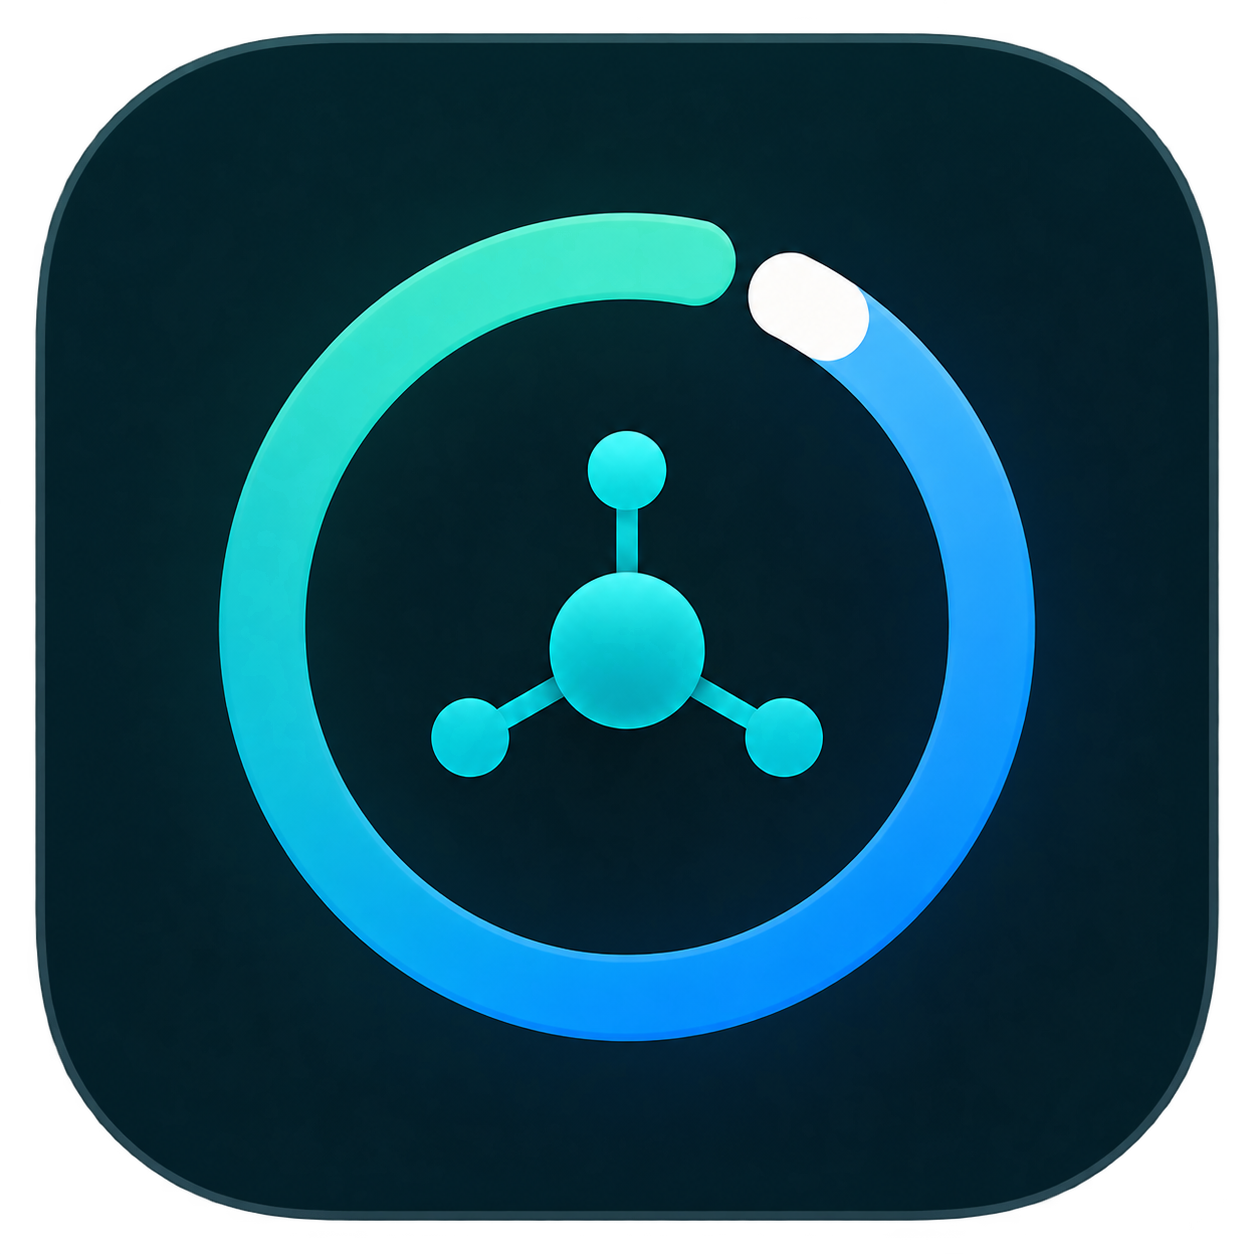
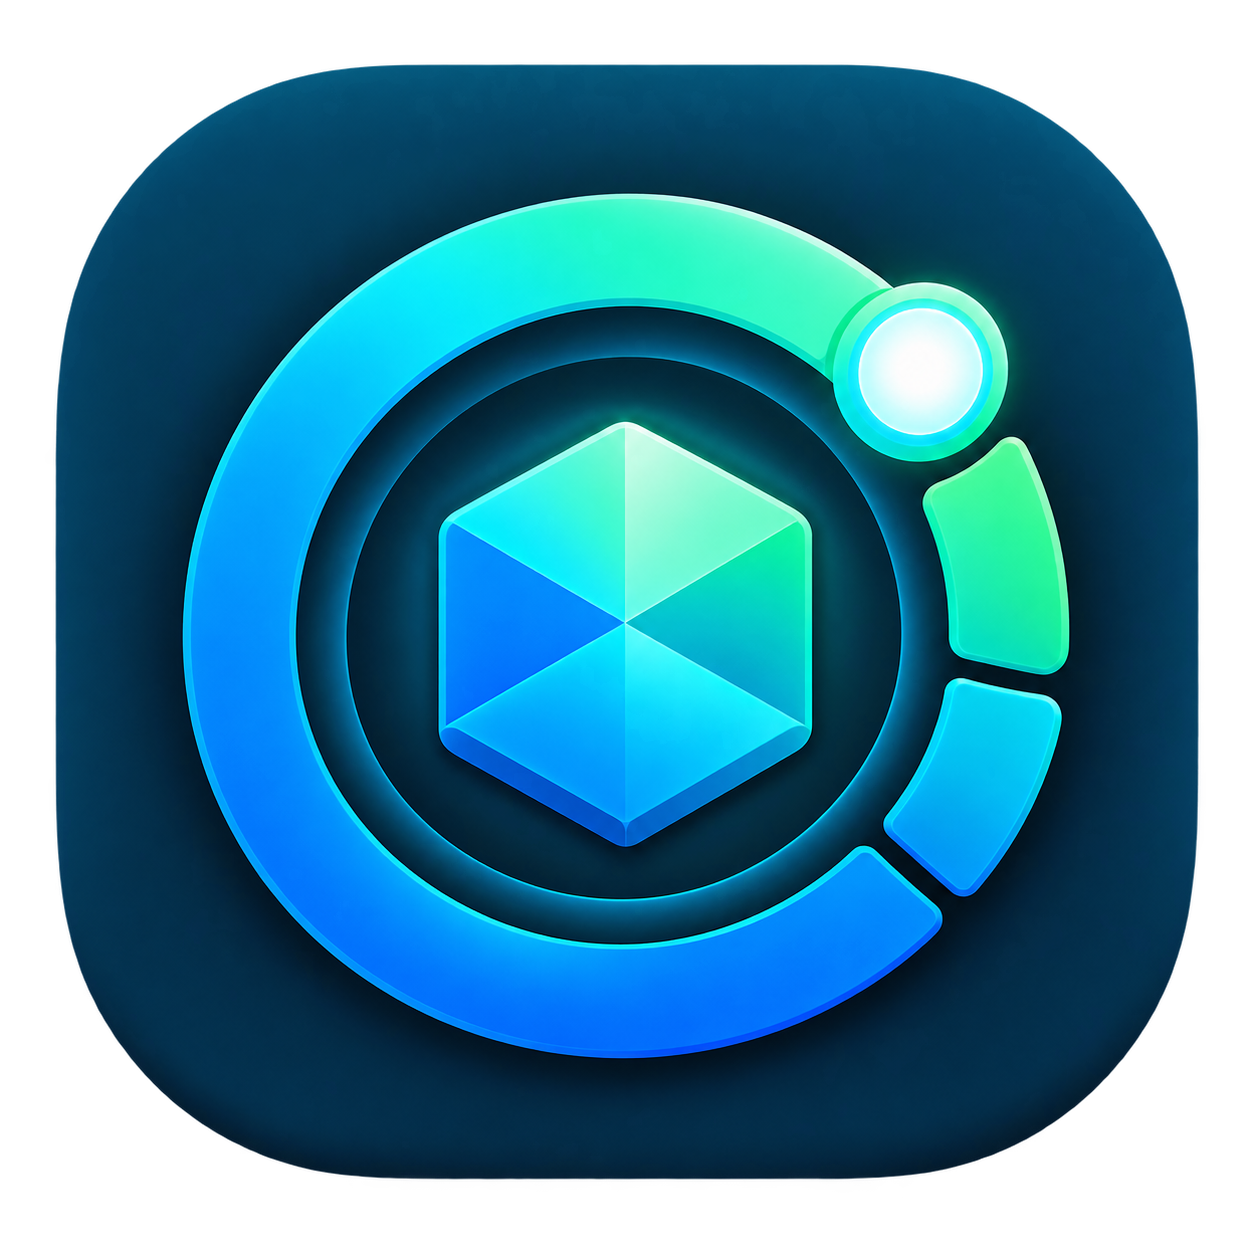
Improve quota resilience and show remaining allowance

diff --git a/macos/TokenUsageMonitor/Sources/TokenUsageMonitor/MonitorStore.swift b/macos/TokenUsageMonitor/Sources/TokenUsageMonitor/MonitorStore.swift
@@ -22,7 +22,7 @@ final class MonitorStore: ObservableObject {
 
     private enum Keys {
         static let notificationsEnabled = "notifications.enabled"
-        static let thresholds = "notifications.thresholds"
+        static let thresholds = "notifications.remainingThresholds"
         static let resetWarningMinutes = "notifications.resetWarningMinutes"
         static let notifiedResetPrefix = "monitor.notifiedReset."
     }
@@ -34,6 +34,7 @@ final class MonitorStore: ObservableObject {
     private var taskTimer: DispatchSourceTimer?
     private var client: AppServerClient?
     private var apiServerProcess: Process?
+    private var consecutiveQuotaFailures = 0
     private let dataDirectory: URL
     private let snapshotURL: URL
     private let taskRecordsURL: URL
@@ -62,7 +63,7 @@ final class MonitorStore: ObservableObject {
             taskRecords = []
         }
         notificationsEnabled = defaults.object(forKey: Keys.notificationsEnabled) as? Bool ?? true
-        thresholdText = defaults.string(forKey: Keys.thresholds) ?? "80, 95, 100"
+        thresholdText = defaults.string(forKey: Keys.thresholds) ?? "20, 5, 0"
         let storedWarning = defaults.integer(forKey: Keys.resetWarningMinutes)
         resetWarningMinutes = storedWarning == 0 ? 30 : storedWarning
         worker.setSpecific(key: workerKey, value: true)
@@ -86,16 +87,16 @@ final class MonitorStore: ObservableObject {
     }
 
     var menuTitle: String {
-        guard let used = primaryWindow?.usedPercent else { return "--%" }
-        return "\(Int(used.rounded()))%"
+        guard let remaining = primaryWindow?.remainingPercent else { return "--%" }
+        return "\(Int(remaining.rounded()))%"
     }
 
     var thresholds: [Int] {
         let parsed = thresholdText
             .split(whereSeparator: { $0 == "," || $0 == "，" || $0 == " " })
             .compactMap { Int($0) }
-            .filter { (1...100).contains($0) }
-        return Array(Set(parsed)).sorted()
+            .filter { (0...99).contains($0) }
+        return Array(Set(parsed)).sorted(by: >)
     }
 
     func start() {
@@ -175,32 +176,71 @@ final class MonitorStore: ObservableObject {
             var usage: [String: Any] = [:]
             var limits: [String: Any] = [:]
             var usageError: Error?
-            do { usage = try client.request(method: "account/usage/read") } catch { usageError = error }
-            do { limits = try client.request(method: "account/rateLimits/read") } catch {
-                if let usageError { throw MonitorError.server("\(usageError.localizedDescription)；\(error.localizedDescription)") }
-                throw error
-            }
-            if usage.isEmpty && limits.isEmpty { throw MonitorError.invalidResponse }
+            var limitsError: Error?
+            do { limits = try client.request(method: "account/rateLimits/read", timeout: 20) } catch { limitsError = error }
+            do { usage = try client.request(method: "account/usage/read", timeout: 20) } catch { usageError = error }
 
-            let updated = parseSnapshot(usage: usage, limits: limits)
+            guard !usage.isEmpty || !limits.isEmpty else {
+                consecutiveQuotaFailures += 1
+                let shouldReconnect = [usageError, limitsError]
+                    .compactMap { $0 }
+                    .contains { self.isProcessEnded($0) }
+                if shouldReconnect {
+                    client.close()
+                    self.client = nil
+                }
+                let hasCachedQuota = !snapshot.rateWindows.isEmpty
+                DispatchQueue.main.async {
+                    self.lastError = hasCachedQuota
+                        ? "账户额度暂时无法更新，正在显示上次数据；任务 Token 记录不受影响。"
+                        : "暂时无法读取账户额度，应用会自动重试。"
+                    self.isRefreshing = false
+                    self.connectionState = hasCachedQuota ? .cached : .retrying("正在自动重试")
+                }
+                return
+            }
+
+            let updated = parseSnapshot(usage: usage, limits: limits, fallback: snapshot)
             let previous = snapshot
             persist(updated)
             evaluateAlerts(previous: previous, current: updated)
+            consecutiveQuotaFailures = 0
             DispatchQueue.main.async {
                 self.snapshot = updated
-                self.lastError = nil
+                self.lastError = limitsError == nil
+                    ? nil
+                    : "账户额度暂时无法更新，正在显示上次数据；任务 Token 记录不受影响。"
                 self.isRefreshing = false
-                self.connectionState = .connected(client.connectionMode ?? "已连接")
+                self.connectionState = limitsError == nil
+                    ? .connected(client.connectionMode ?? "已连接")
+                    : .cached
             }
         } catch {
             client?.close()
             client = nil
+            consecutiveQuotaFailures += 1
+            let hasCachedQuota = !snapshot.rateWindows.isEmpty
             DispatchQueue.main.async {
-                self.lastError = error.localizedDescription
+                self.lastError = hasCachedQuota
+                    ? "账户额度暂时无法更新，正在显示上次数据；任务 Token 记录不受影响。"
+                    : self.friendlyConnectionError(error)
                 self.isRefreshing = false
-                self.connectionState = .retrying(error.localizedDescription)
+                self.connectionState = hasCachedQuota ? .cached : .retrying("正在自动重试")
             }
         }
+    }
+
+    private func isProcessEnded(_ error: Error) -> Bool {
+        guard let monitorError = error as? MonitorError else { return false }
+        if case .processEnded = monitorError { return true }
+        return false
+    }
+
+    private func friendlyConnectionError(_ error: Error) -> String {
+        if let monitorError = error as? MonitorError, case .codexNotFound = monitorError {
+            return monitorError.localizedDescription
+        }
+        return "暂时无法连接 Codex 用量服务，应用会自动重试。"
     }
 
     private func collectTasks() {
@@ -379,7 +419,11 @@ final class MonitorStore: ObservableObject {
         try? FileManager.default.setAttributes([.posixPermissions: 0o600], ofItemAtPath: taskRecordsURL.path)
     }
 
-    private func parseSnapshot(usage: [String: Any], limits: [String: Any]) -> UsageSnapshot {
+    private func parseSnapshot(
+        usage: [String: Any],
+        limits: [String: Any],
+        fallback: UsageSnapshot
+    ) -> UsageSnapshot {
         let summaryObject = usage.dictionary("summary")
         let account = summaryObject.map {
             AccountSummary(
@@ -388,11 +432,12 @@ final class MonitorStore: ObservableObject {
                 currentStreakDays: $0.integer("currentStreakDays"),
                 longestStreakDays: $0.integer("longestStreakDays")
             )
-        }
-        let days = usage.array("dailyUsageBuckets").compactMap { item -> DailyUsage? in
+        } ?? fallback.account
+        let parsedDays = usage.array("dailyUsageBuckets").compactMap { item -> DailyUsage? in
             guard let date = item.string("startDate"), let tokens = item.integer("tokens") else { return nil }
             return DailyUsage(date: date, tokens: tokens)
         }.sorted { $0.date < $1.date }
+        let days = usage.isEmpty ? fallback.dailyUsage : parsedDays
 
         var windows: [RateWindow] = []
         if let groups = limits.dictionary("rateLimitsByLimitId") {
@@ -408,7 +453,10 @@ final class MonitorStore: ObservableObject {
             if $0.limitID != "codex" && $1.limitID == "codex" { return false }
             return $0.id < $1.id
         }
-        let resetCredits = limits.dictionary("rateLimitResetCredits")?.integer("availableCount") ?? 0
+        if limits.isEmpty { windows = fallback.rateWindows }
+        let resetCredits = limits.isEmpty
+            ? fallback.availableResetCredits
+            : limits.dictionary("rateLimitResetCredits")?.integer("availableCount") ?? 0
         return UsageSnapshot(
             capturedAt: Date(),
             account: account,
@@ -443,9 +491,12 @@ final class MonitorStore: ObservableObject {
         let now = Date()
         for window in current.rateWindows {
             let old = previous.rateWindows.first(where: { $0.id == window.id })
-            for threshold in thresholds where window.usedPercent >= Double(threshold) {
-                if old == nil || (old?.usedPercent ?? 0) < Double(threshold) {
-                    sendNotification(title: "Codex 用量提醒", body: "\(window.displayName)已使用 \(Int(window.usedPercent.rounded()))%")
+            for threshold in thresholds where window.remainingPercent <= Double(threshold) {
+                if old == nil || (old?.remainingPercent ?? 100) > Double(threshold) {
+                    sendNotification(
+                        title: "Codex 余量提醒",
+                        body: "\(window.displayName)剩余 \(Int(window.remainingPercent.rounded()))%"
+                    )
                 }
             }
             if let old, let oldReset = old.resetsAt, let newReset = window.resetsAt,

diff --git a/macos/TokenUsageMonitor/Sources/TokenUsageMonitor/ContentView.swift b/macos/TokenUsageMonitor/Sources/TokenUsageMonitor/ContentView.swift
@@ -24,13 +24,16 @@ struct MonitorPanel: View {
 
     private var header: some View {
         HStack(spacing: 10) {
-            ZStack {
-                RoundedRectangle(cornerRadius: 10)
-                    .fill(Color.accentColor.gradient)
-                    .frame(width: 38, height: 38)
+            if let logo = appLogo {
+                Image(nsImage: logo)
+                    .resizable()
+                    .interpolation(.high)
+                    .scaledToFit()
+                    .frame(width: 40, height: 40)
+            } else {
                 Image(systemName: "gauge.with.dots.needle.67percent")
-                    .font(.system(size: 20, weight: .semibold))
-                    .foregroundStyle(.white)
+                    .font(.system(size: 22, weight: .semibold))
+                    .frame(width: 40, height: 40)
             }
             VStack(alignment: .leading, spacing: 2) {
                 Text("Token Usage Monitor").font(.headline)
@@ -123,14 +126,14 @@ struct MonitorPanel: View {
                         .background(.secondary.opacity(0.12), in: Capsule())
                 }
                 Spacer()
-                Text("\(Int(window.usedPercent.rounded()))%")
+                Text("剩余 \(Int(window.remainingPercent.rounded()))%")
                     .font(.title2.monospacedDigit().weight(.bold))
-                    .foregroundStyle(progressColor(window.usedPercent))
+                    .foregroundStyle(remainingColor(window.remainingPercent))
             }
-            ProgressView(value: min(window.usedPercent, 100), total: 100)
-                .tint(progressColor(window.usedPercent))
+            ProgressView(value: window.remainingPercent, total: 100)
+                .tint(remainingColor(window.remainingPercent))
             HStack {
-                Text("剩余 \(Int(max(0, 100 - window.usedPercent).rounded()))%")
+                Text(remainingDescription(window.remainingPercent))
                 Spacer()
                 if let reset = window.resetsAt {
                     Text("刷新 ") + Text(reset, style: .relative)
@@ -285,9 +288,9 @@ struct MonitorPanel: View {
                 Toggle("系统通知", isOn: $monitor.notificationsEnabled)
                     .onChange(of: monitor.notificationsEnabled) { _ in monitor.updateNotificationPermissionIfNeeded() }
                 VStack(alignment: .leading, spacing: 5) {
-                    Text("用量阈值").font(.subheadline)
-                    TextField("80, 95, 100", text: $monitor.thresholdText).textFieldStyle(.roundedBorder)
-                    Text("使用逗号分隔，范围为 1–100").font(.caption).foregroundStyle(.secondary)
+                    Text("低余量提醒").font(.subheadline)
+                    TextField("20, 5, 0", text: $monitor.thresholdText).textFieldStyle(.roundedBorder)
+                    Text("剩余比例降到这些数值时提醒，以逗号分隔").font(.caption).foregroundStyle(.secondary)
                 }
                 Stepper("刷新前提醒：\(monitor.resetWarningMinutes) 分钟", value: $monitor.resetWarningMinutes, in: 5...240, step: 5)
             }
@@ -365,10 +368,21 @@ struct MonitorPanel: View {
         .padding(.vertical, 10)
     }
 
-    private func progressColor(_ value: Double) -> Color {
-        if value >= 95 { return .red }
-        if value >= 80 { return .orange }
+    private func remainingColor(_ value: Double) -> Color {
+        if value <= 5 { return .red }
+        if value <= 20 { return .orange }
         return .accentColor
+    }
+
+    private func remainingDescription(_ value: Double) -> String {
+        if value <= 5 { return "余量即将耗尽" }
+        if value <= 20 { return "余量偏低" }
+        return "余量充足"
+    }
+
+    private var appLogo: NSImage? {
+        guard let url = Bundle.main.url(forResource: "AppLogo", withExtension: "png") else { return nil }
+        return NSImage(contentsOf: url)
     }
 
     private func compact(_ number: Int?) -> String {

diff --git a/macos/TokenUsageMonitor/Sources/TokenUsageMonitor/AppServerClient.swift b/macos/TokenUsageMonitor/Sources/TokenUsageMonitor/AppServerClient.swift
@@ -23,10 +23,14 @@ final class AppServerClient {
     func connect() throws -> String {
         guard let codex = Self.findCodexBinary() else { throw MonitorError.codexNotFound }
         var failures: [String] = []
-        for candidate in [
-            ("daemon proxy", ["app-server", "proxy"]),
-            ("独立连接", ["app-server", "--stdio"])
-        ] {
+        var candidates: [(String, [String])] = []
+        let controlSocket = FileManager.default.homeDirectoryForCurrentUser
+            .appendingPathComponent(".codex/app-server-control/app-server-control.sock")
+        if FileManager.default.fileExists(atPath: controlSocket.path) {
+            candidates.append(("桌面连接", ["app-server", "proxy"]))
+        }
+        candidates.append(("独立连接", ["app-server", "--stdio"]))
+        for candidate in candidates {
             do {
                 try spawn(executable: codex, arguments: candidate.1)
                 _ = try request(
@@ -34,7 +38,7 @@ final class AppServerClient {
                     params: ["clientInfo": [
                         "name": "token_usage_monitor_macos",
                         "title": "Token Usage Monitor",
-                        "version": "1.0.0"
+                        "version": "1.2.0"
                     ]],
                     timeout: 12
                 )
@@ -191,8 +195,15 @@ final class AppServerClient {
         if let override = environment["CODEX_BINARY"], FileManager.default.isExecutableFile(atPath: override) {
             return override
         }
-        var candidates = ["/opt/homebrew/bin/codex", "/usr/local/bin/codex"]
         let home = FileManager.default.homeDirectoryForCurrentUser.path
+        var candidates = [
+            "/Applications/ChatGPT.app/Contents/Resources/codex",
+            "\(home)/Applications/ChatGPT.app/Contents/Resources/codex",
+            "/Applications/Codex.app/Contents/Resources/codex",
+            "\(home)/Applications/Codex.app/Contents/Resources/codex",
+            "/opt/homebrew/bin/codex",
+            "/usr/local/bin/codex"
+        ]
         let nvmRoot = "\(home)/.nvm/versions/node"
         if let versions = try? FileManager.default.contentsOfDirectory(atPath: nvmRoot) {
             candidates.append(contentsOf: versions.sorted().reversed().map { "\(nvmRoot)/\($0)/bin/codex" })

diff --git a/macos/TokenUsageMonitor/Sources/TokenUsageMonitor/Models.swift b/macos/TokenUsageMonitor/Sources/TokenUsageMonitor/Models.swift
@@ -58,6 +58,10 @@ struct RateWindow: Codable, Identifiable, Equatable {
 
     var id: String { "\(limitID)-\(windowName)" }
 
+    var remainingPercent: Double {
+        min(100, max(0, 100 - usedPercent))
+    }
+
     var displayName: String {
         if let limitName, !limitName.isEmpty { return limitName }
         if limitID == "codex" { return windowName == "primary" ? "Codex 周额度" : "Codex 次级额度" }
@@ -84,6 +88,7 @@ struct UsageSnapshot: Codable, Equatable {
 enum MonitorConnectionState: Equatable {
     case starting
     case connected(String)
+    case cached
     case retrying(String)
     case stopped
 
@@ -91,6 +96,7 @@ enum MonitorConnectionState: Equatable {
         switch self {
         case .starting: return "正在连接"
         case .connected: return "实时监控中"
+        case .cached: return "显示缓存额度"
         case .retrying: return "等待重连"
         case .stopped: return "已停止"
         }

diff --git a/scripts/mcp_server.py b/scripts/mcp_server.py
@@ -211,7 +211,7 @@ class MCPServer:
                 {
                     "protocolVersion": requested or "2024-11-05",
                     "capabilities": {"tools": {"listChanged": False}},
-                    "serverInfo": {"name": "token-usage-monitor", "version": "1.1.0"},
+                    "serverInfo": {"name": "token-usage-monitor", "version": "1.2.0"},
                     "instructions": "Local Codex task, OpenAI-compatible API token, and rate-limit monitoring. Never stores prompts, responses, or API keys and never consumes reset credits.",
                 },
             )

diff --git a/README.md b/README.md
@@ -3,13 +3,15 @@
 A local, privacy-focused Codex plugin for tracking token activity, rate-limit windows, scheduled resets, and earned reset credits.
 
 The repository also includes a native macOS 13+ menu-bar app in
-`macos/TokenUsageMonitor`. It provides a glanceable quota percentage, reset
+`macos/TokenUsageMonitor`. It provides a glanceable remaining-quota percentage, reset
 countdown, daily chart, local alerts, and optional launch at login while using
 the same local-only privacy model.
 
-Version 1.1 adds a custom app icon, five-second per-task tracking with local
-conversation names, and provider-neutral API usage ingestion for OpenAI,
-DeepSeek, and other OpenAI-compatible models.
+Version 1.2 adds the product Logo throughout the macOS app, displays quotas as
+remaining percentages, prefers the Codex runtime bundled with ChatGPT, and
+keeps the last successful quota snapshot during transient network failures.
+It also includes five-second per-task tracking with local conversation names
+and provider-neutral API usage ingestion for OpenAI-compatible models.
 
 ## macOS menu-bar app
 
@@ -21,7 +23,7 @@ cd macos/TokenUsageMonitor
 open 'dist/Token Usage Monitor.app'
 ```
 
-The menu bar shows the current quota percentage. Click it to view all quota
+The menu bar shows the current remaining-quota percentage. Click it to view all quota
 windows, reset countdowns, a 14-day activity chart, alert settings, manual
 refresh, and the launch-at-login option. The local build is ad-hoc signed;
 Developer ID signing and Apple notarization are required before distributing a

diff --git a/macos/TokenUsageMonitor/README.md b/macos/TokenUsageMonitor/README.md
@@ -4,7 +4,9 @@ Native macOS 13+ menu-bar companion for the Token Usage Monitor Codex plugin.
 
 ## Features
 
-- Live Codex quota percentage and reset countdown
+- Live Codex remaining-quota percentage and reset countdown
+- Cached quota fallback with a friendly automatic-retry status during network interruptions
+- Product Logo in the panel and macOS application icon
 - Daily token chart and account summary
 - Local notifications at configurable thresholds
 - Detection of scheduled resets and newly granted reset credits
@@ -20,7 +22,7 @@ Native macOS 13+ menu-bar companion for the Token Usage Monitor Codex plugin.
 ```
 
 The finished app is written to `dist/Token Usage Monitor.app`. Move it to the
-Applications folder and launch it; the quota percentage will appear in the
+Applications folder and launch it; the remaining-quota percentage will appear in the
 menu bar. The app requires a local Codex CLI installation, an authenticated
 Codex session, and macOS 13 or newer.
 
